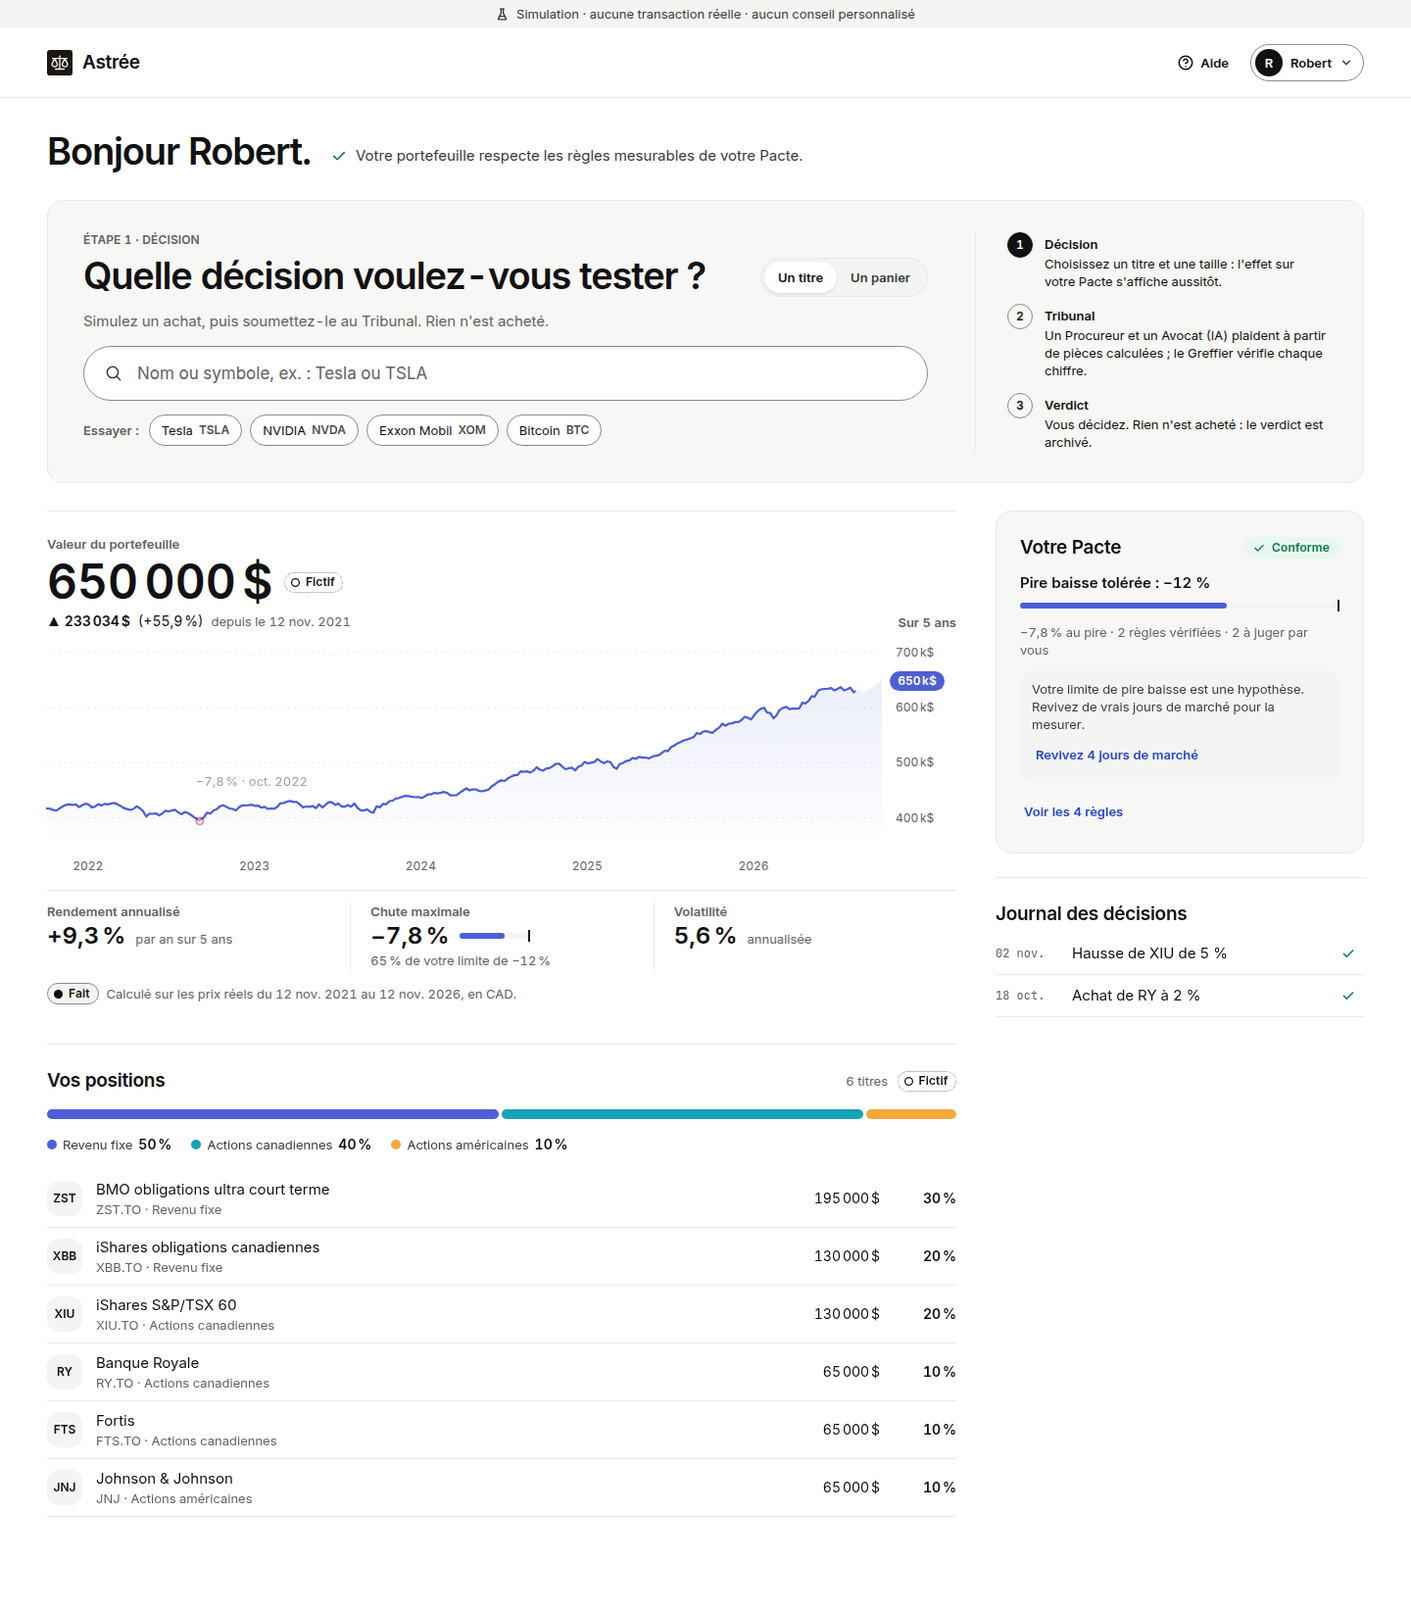
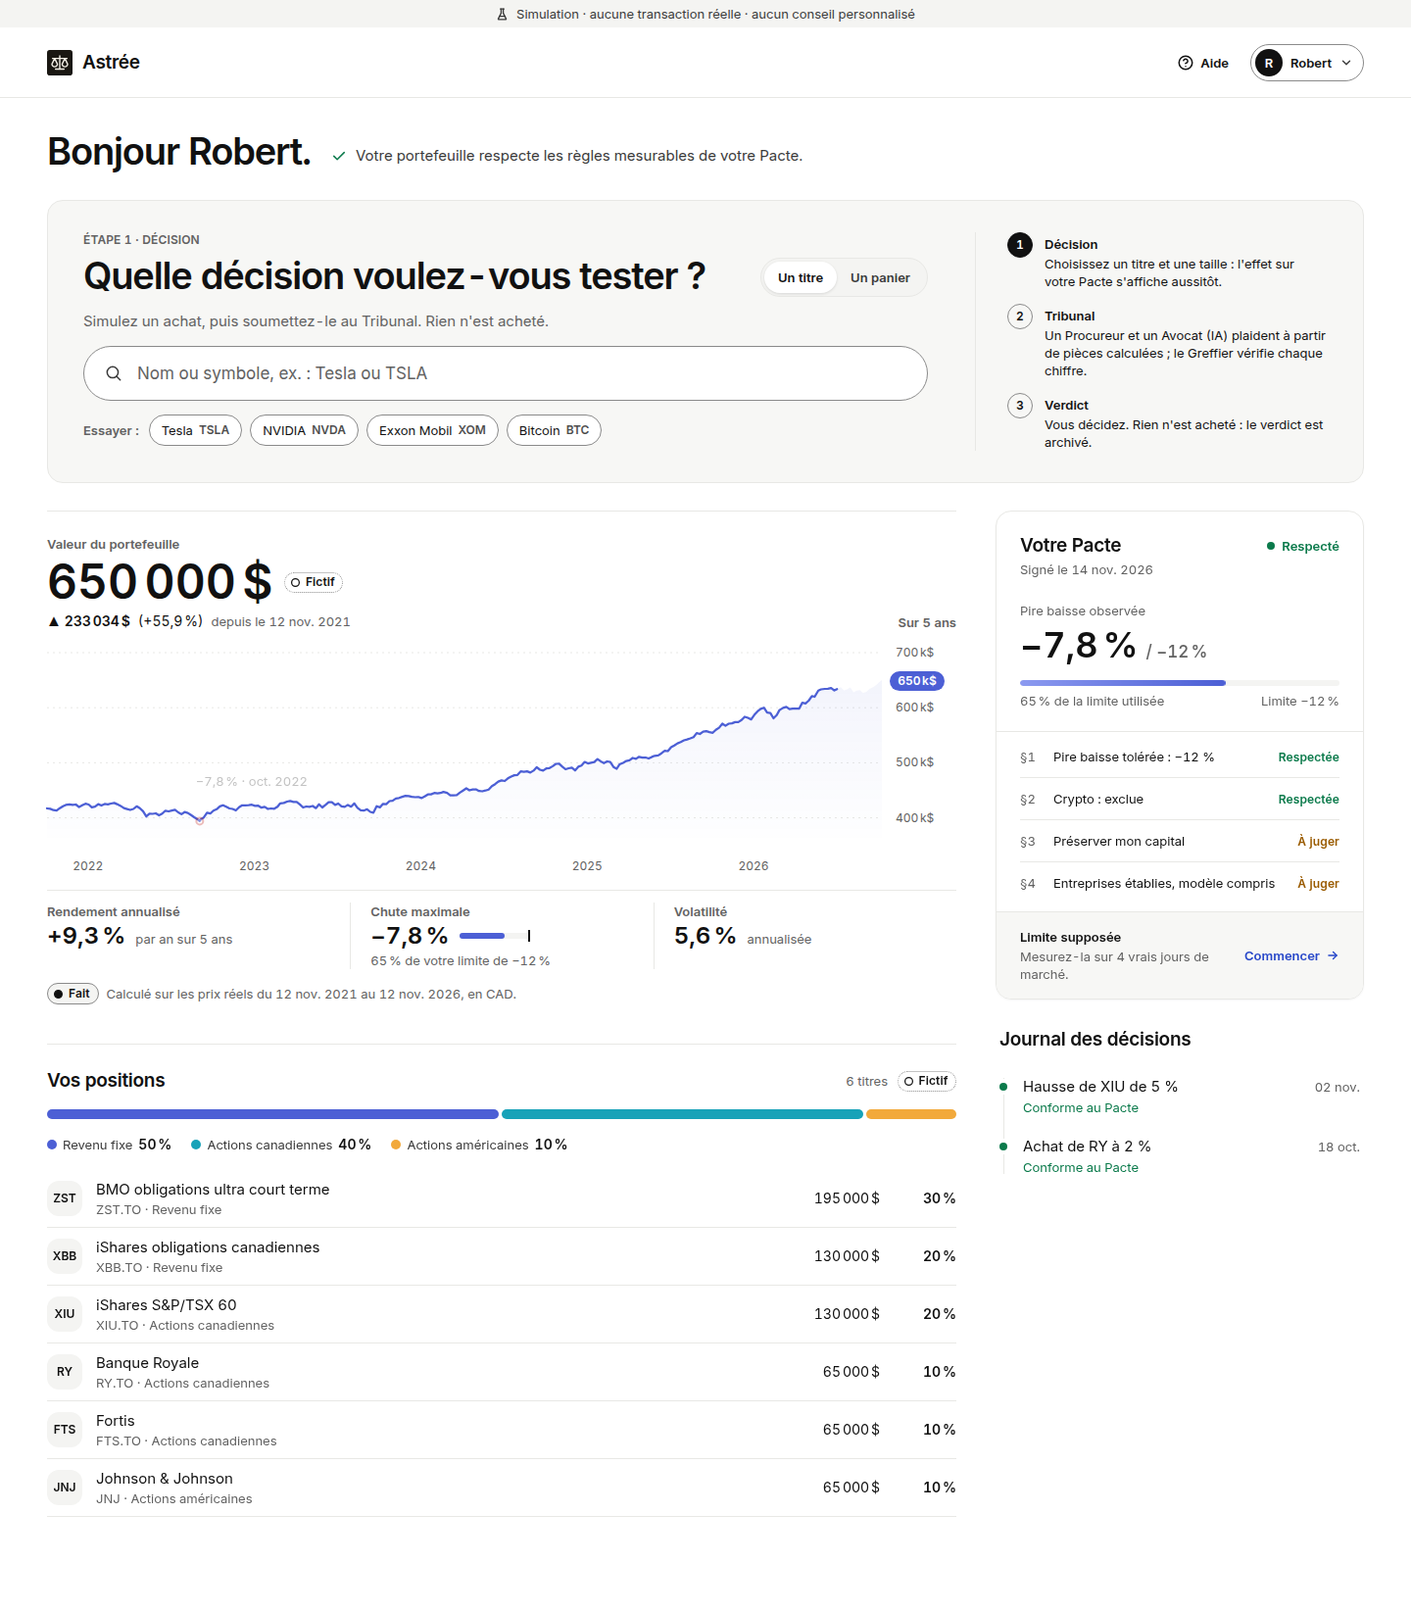
Recompose la carte « Votre Pacte » et le journal des décisions (#105)
Chiffre clé en grand avec jauge et bornes, règles toujours visibles avec
leur statut écrit, Pacte vécu en pied de carte cliquable ; journal en frise
avec un point coloré et le statut en toutes lettres.

diff --git a/frontend/src/ecrans/Portefeuille.tsx b/frontend/src/ecrans/Portefeuille.tsx
@@ -1,17 +1,17 @@
 /** Écran Portefeuille (annexe D.2), avec la recherche (D.3) et la confirmation après signature (C.6). */
 import { useState } from 'react';
-import { useLocation, useNavigate, useSearchParams } from 'react-router-dom';
-import type { EntreeJournal, Profil } from '../api/types';
+import { Link, useLocation, useNavigate, useSearchParams } from 'react-router-dom';
+import type { EntreeJournal, Profil, ReglePacte } from '../api/types';
 import { configUi, donneesCalibrage, nomTitre, rechercheUi } from '../api/donnees';
 import { Gabarit, useTitre } from '../components/Gabarit';
 import { GraphiqueValeur } from '../components/graphiques/GraphiqueValeur';
 import { Recherche } from '../components/Recherche';
 import { Bouton } from '../components/Bouton';
-import { IconeStatut, Provenance, Statut } from '../components/Etiquettes';
+import { Provenance } from '../components/Etiquettes';
 import { Jauge, Monogramme, Section } from '../components/Elements';
 import { Icone } from '../components/Icone';
 import { compte, date, dollars, jourMois, part, pourcent, seuil as seuilTexte } from '../lib/format';
-import { bilanPacte, regleCle, seuilPireBaisse, statutUi, valeurRegle } from '../domaine/pacte';
+import { bilanPacte, regleCle, seuilPireBaisse } from '../domaine/pacte';
 import { regleMesuree } from '../domaine/calibrage';
 import { useEtatProfil } from '../state/store';
 import styles from './Portefeuille.module.css';
@@ -137,69 +137,104 @@ function Positions({ profil }: { profil: Profil }) {
   );
 }
 
+/** Ligne du bas de la carte du Pacte : la limite de pire baisse est-elle supposée ou mesurée (Pacte vécu, #68) ? */
 function PacteVecu({ profil }: { profil: Profil }) {
   const mesuree = regleMesuree(profil);
   if (!donneesCalibrage(profil.id)) return null;
   return (
-    <div className={styles.pacteVecu}>
-      {mesuree ? (
-        <p className="t-petit c-700">{mesuree.provenance}.</p>
-      ) : (
-        <p className="t-petit c-700">Votre limite de pire baisse est une hypothèse. Revivez de vrais jours de marché pour la mesurer.</p>
-      )}
-      <Bouton variante="tertiaire" compact fleche={false} vers={`/${profil.id}/pacte-vecu`}>
-        {mesuree ? 'Revoir mes réponses' : 'Revivez 4 jours de marché'}
-      </Bouton>
+    <Link className={styles.pacteVecu} to={`/${profil.id}/pacte-vecu`}>
+      <span className={styles.textePacteVecu}>
+        <span className="t-petit-fort">{mesuree ? 'Limite mesurée' : 'Limite supposée'}</span>
+        <span className="t-petit c-500">{mesuree ? `${mesuree.provenance}.` : 'Mesurez-la sur 4 vrais jours de marché.'}</span>
+      </span>
+      <span className={`t-petit-fort ${styles.actionPacteVecu}`}>
+        {mesuree ? 'Revoir' : 'Commencer'}
+        <Icone nom="fleche-droite" taille={14} />
+      </span>
+    </Link>
+  );
+}
+
+/** Le chiffre clé du Pacte : la valeur actuelle de la règle la plus proche de sa limite, et sa jauge. */
+function RegleCle({ regle }: { regle: ReglePacte }) {
+  const baisse = regle.type === 'pire_baisse_max';
+  const limite = baisse ? regle.seuil : regle.max;
+  const valeur = regle.valeur ?? 0;
+  const utilisation = regle.utilisation ?? 0;
+  const enViolation = regle.statut === 'violation';
+  return (
+    <div className={styles.regleCle}>
+      <p className="t-petit c-500">{baisse ? 'Pire baisse observée' : regle.libelle}</p>
+      <p className={styles.chiffreCle}>
+        <span className={enViolation ? styles.chiffreViolation : undefined}>{baisse ? pourcent(valeur) : part(valeur)}</span>
+        {limite !== undefined && <span className={styles.limiteCle}>/ {baisse ? seuilTexte(limite) : part(limite)}</span>}
+      </p>
+      <span
+        className={`${styles.jaugePacte} ${enViolation ? styles.jaugeViolation : ''}`}
+        role="meter"
+        aria-valuemin={0}
+        aria-valuemax={100}
+        aria-valuenow={Math.round(utilisation * 100)}
+        aria-label={`${regle.libelle} : ${pourcent(utilisation, { decimales: 0 })} de la limite utilisée`}
+      >
+        <span style={{ width: `${Math.min(1, Math.max(0, utilisation)) * 100}%` }} />
+      </span>
+      <p className={`t-petit c-500 ${styles.bornesJauge}`}>
+        <span>{pourcent(utilisation, { decimales: 0 })} de la limite utilisée</span>
+        {limite !== undefined && <span>Limite {baisse ? seuilTexte(limite) : part(limite)}</span>}
+      </p>
     </div>
   );
 }
 
+const STATUT_REGLE: Record<ReglePacte['statut'], string> = { conforme: 'Respectée', violation: 'Enfreinte', a_verifier: 'À juger' };
+const COULEUR_STATUT: Record<ReglePacte['statut'], string> = { conforme: styles.couleurConforme, violation: styles.couleurViolation, a_verifier: styles.couleurVerifier };
+
 function CartePacte({ profil }: { profil: Profil }) {
-  const [ouvert, setOuvert] = useState(false);
   const cle = regleCle(profil);
   const bilan = bilanPacte(profil);
   const regles = profil.pacte.regles;
-  const detail = [cle ? valeurRegle(cle) : null, `${compte(bilan.verifiees, 'règle vérifiée', 'règles vérifiées')}`, bilan.aJuger ? `${bilan.aJuger} à juger par vous` : null]
-    .filter(Boolean).join(' · ');
   return (
     <section className={styles.cartePacte} aria-labelledby="titre-pacte">
       <div className={styles.entetePacte}>
-        <h2 className="t-panneau" id="titre-pacte">Votre Pacte</h2>
-        <Statut type={bilan.statut} />
-      </div>
-      {cle && (
-        <div className={styles.regleCle}>
-          <p className="t-corps-fort">{cle.libelle}</p>
-          <Jauge valeur={cle.utilisation ?? 0} libelle={`${cle.libelle} : ${pourcent(cle.utilisation ?? 0, { decimales: 0 })} de la limite utilisée`} />
+        <div className={styles.titrePacte}>
+          <h2 className="t-panneau" id="titre-pacte">Votre Pacte</h2>
+          <p className="t-petit c-500">Signé le {date(profil.pacte.dateSignature)}</p>
         </div>
-      )}
-      <p className="t-petit c-500">{detail}</p>
-      <PacteVecu profil={profil} />
-      <Bouton variante="tertiaire" compact fleche={false} aria-expanded={ouvert} aria-controls="regles-pacte" onClick={() => setOuvert((o) => !o)} className={styles.voirRegles}>
-        {ouvert ? 'Masquer les règles' : `Voir les ${regles.length} règles`}
-      </Bouton>
-      <ol id="regles-pacte" className={styles.regles} hidden={!ouvert}>
+        <span className={`t-petit-fort ${styles.etatPacte} ${bilan.violations ? styles.etatViolation : styles.etatConforme}`}>
+          <span className={styles.point} aria-hidden="true" />
+          {bilan.violations ? compte(bilan.violations, 'règle enfreinte', 'règles enfreintes') : 'Respecté'}
+        </span>
+      </div>
+      {cle && <RegleCle regle={cle} />}
+      <ol className={styles.regles} aria-label="Règles du Pacte">
         {regles.map((r, i) => (
           <li key={r.id}>
-            <span className="t-trace c-500">§{i + 1}</span>
-            <span className="t-petit">
-              {r.libelle}
-              {r.provenance && <span className="c-500"> · {r.provenance}</span>}
+            <span className={`t-petit c-500 ${styles.numeroRegle}`}>§{i + 1}</span>
+            <span className={styles.texteRegle}>
+              <span className="t-petit">{r.libelle}</span>
+              {r.provenance && <span className="t-petit c-500">{r.provenance}</span>}
             </span>
-            <IconeStatut type={statutUi(r.statut)} taille={14} />
+            <span className={`t-etiquette ${styles.statutRegle} ${COULEUR_STATUT[r.statut]}`}>{STATUT_REGLE[r.statut]}</span>
           </li>
         ))}
-        <li className="t-petit c-500">Signé le {date(profil.pacte.dateSignature)}. Les règles sans calcul possible sont à juger par vous.</li>
       </ol>
+      <PacteVecu profil={profil} />
     </section>
   );
 }
+
+const LIBELLE_JOURNAL: Record<EntreeJournal['statut'], string> = {
+  conforme: 'Conforme au Pacte',
+  violation: 'En conflit avec le Pacte',
+  a_verifier: 'À vérifier',
+};
 
 function Journal({ entrees }: { entrees: EntreeJournal[] }) {
   const [tout, setTout] = useState(false);
   const visibles = tout ? entrees : entrees.slice(0, 3);
   return (
-    <section className={`section ${styles.journal}`} aria-labelledby="titre-journal">
+    <section className={styles.journal} aria-labelledby="titre-journal">
       <div className={styles.enteteJournal}>
         <h2 className="t-panneau" id="titre-journal">Journal des décisions</h2>
         {entrees.length > 3 && (
@@ -208,15 +243,18 @@ function Journal({ entrees }: { entrees: EntreeJournal[] }) {
           </Bouton>
         )}
       </div>
-      <ul>
+      <ol className={styles.frise}>
         {visibles.map((e) => (
-          <li key={`${e.date}-${e.texte}`} className={`${styles.entree} ${e.nouveau ? styles.entreeNouvelle : ''}`}>
-            <span className={`t-trace c-500 ${styles.dateJournal}`}>{jourMois(e.date)}</span>
-            <span className="t-corps">{e.texte}</span>
-            <IconeStatut type={statutUi(e.statut)} />
+          <li key={`${e.date}-${e.texte}`} className={`${styles.entree} ${COULEUR_STATUT[e.statut]} ${e.nouveau ? styles.entreeNouvelle : ''}`}>
+            <span className={styles.point} aria-hidden="true" />
+            <span className={styles.texteEntree}>
+              <span className="t-corps">{e.texte}</span>
+              <span className={`t-petit ${styles.statutEntree}`}>{LIBELLE_JOURNAL[e.statut]}</span>
+            </span>
+            <time className="t-petit c-500" dateTime={e.date}>{jourMois(e.date)}</time>
           </li>
         ))}
-      </ul>
+      </ol>
     </section>
   );
 }

diff --git a/frontend/src/ecrans/Portefeuille.module.css b/frontend/src/ecrans/Portefeuille.module.css
@@ -105,35 +105,126 @@
 .montantLigne { width: 120px; text-align: right; flex: none; }
 .poids { width: 64px; text-align: right; flex: none; }
 
+/* Carte du Pacte : en-tête, chiffre clé et sa jauge, règles toujours visibles, Pacte vécu en pied de carte. */
 .cartePacte {
   display: flex;
   flex-direction: column;
-  gap: 12px;
-  padding: 24px;
-  background: var(--fond-sourdine);
+  background: var(--fond-carte);
   border: 1px solid var(--trait-fin);
   border-radius: var(--rayon);
+  box-shadow: 0 1px 2px rgb(17 17 17 / 0.04);
+  overflow: hidden;
 }
-.entetePacte { display: flex; align-items: center; justify-content: space-between; gap: 12px; }
-.regleCle { display: flex; flex-direction: column; gap: 6px; }
-.voirRegles { align-self: flex-start; }
-.regles { display: flex; flex-direction: column; gap: 8px; border-top: 1px solid var(--trait-fin); padding-top: 12px; }
-.regles[hidden] { display: none; }
-.regles li { display: grid; grid-template-columns: 24px 1fr auto; align-items: center; gap: 8px; }
-.regles li:last-child { display: block; }
+.entetePacte {
+  display: flex;
+  align-items: flex-start;
+  justify-content: space-between;
+  gap: 12px;
+  padding: 22px 24px 0;
+}
+.titrePacte { display: flex; flex-direction: column; gap: 2px; }
+.etatPacte { display: inline-flex; align-items: center; gap: 7px; padding-top: 4px; white-space: nowrap; }
+.point { flex: none; width: 8px; height: 8px; border-radius: 50%; background: currentColor; }
+.etatConforme { color: var(--statut-conforme); }
+.etatViolation { color: var(--statut-violation); }
 
-.journal { display: flex; flex-direction: column; gap: 6px; padding-top: 16px; }
-.enteteJournal { display: flex; align-items: center; justify-content: space-between; }
-.entree {
-  display: grid;
-  grid-template-columns: 64px 1fr auto;
-  align-items: center;
-  gap: 14px;
-  padding: 10px 8px 10px 0;
-  border-bottom: 1px solid var(--trait-fin);
+.regleCle { display: flex; flex-direction: column; gap: 6px; padding: 24px 24px 22px; }
+.chiffreCle { display: flex; align-items: baseline; gap: 8px; }
+.chiffreCle > span:first-child {
+  font-family: var(--police-titre);
+  font-weight: 600;
+  font-size: 36px;
+  line-height: 40px;
+  letter-spacing: -0.04em;
 }
-.entreeNouvelle { background: var(--accent-bleu-teinte); padding-left: 8px; border-radius: var(--rayon-petit); }
-.dateJournal { white-space: nowrap; }
+.chiffreViolation { color: var(--statut-violation); }
+.limiteCle { color: var(--encre-500); font-size: 17px; font-weight: 500; letter-spacing: -0.01em; }
+.jaugePacte {
+  position: relative;
+  display: block;
+  height: 6px;
+  margin-top: 10px;
+  border-radius: var(--rayon-pilule);
+  background: var(--fond-creux);
+  overflow: hidden;
+}
+.jaugePacte > span {
+  position: absolute;
+  inset: 0 auto 0 0;
+  border-radius: var(--rayon-pilule);
+  background: linear-gradient(90deg, #8c9af0, var(--donnee-principale));
+  transform-origin: left;
+  animation: remplir 0.9s cubic-bezier(0.4, 0, 0.2, 1);
+}
+.jaugeViolation > span { background: var(--statut-violation); }
+@keyframes remplir { from { transform: scaleX(0); } }
+.bornesJauge { display: flex; justify-content: space-between; gap: 12px; }
+
+.regles { display: flex; flex-direction: column; padding: 4px 24px 8px; border-top: 1px solid var(--trait-fin); }
+.regles li {
+  display: grid;
+  grid-template-columns: 24px minmax(0, 1fr) auto;
+  align-items: baseline;
+  gap: 10px;
+  padding: 12px 0;
+}
+.regles li + li { border-top: 1px solid var(--trait-fin); }
+.numeroRegle { font-variant-numeric: tabular-nums; }
+.texteRegle { display: flex; flex-direction: column; gap: 2px; min-width: 0; }
+.statutRegle { white-space: nowrap; }
+.couleurConforme { --couleur-statut: var(--statut-conforme); }
+.couleurViolation { --couleur-statut: var(--statut-violation); }
+.couleurVerifier { --couleur-statut: var(--statut-verifier); }
+.statutRegle { color: var(--couleur-statut); }
+
+/* Pied de carte cliquable : toute la ligne mène au Pacte vécu. */
+.pacteVecu {
+  display: flex;
+  align-items: center;
+  justify-content: space-between;
+  gap: 16px;
+  padding: 16px 24px;
+  border-top: 1px solid var(--trait-fin);
+  background: var(--fond-sourdine);
+  color: var(--encre-900);
+  text-decoration: none;
+  transition: box-shadow var(--transition);
+}
+.pacteVecu:hover { box-shadow: inset 0 0 0 999px rgb(17 17 17 / 0.025); }
+.pacteVecu:focus-visible { outline-offset: -3px; }
+.textePacteVecu { display: flex; flex-direction: column; gap: 2px; min-width: 0; }
+.actionPacteVecu { display: inline-flex; align-items: center; gap: 6px; flex: none; color: var(--accent-bleu); }
+.actionPacteVecu svg { transition: transform var(--transition); }
+.pacteVecu:hover .actionPacteVecu svg { transform: translateX(3px); }
+
+/* Journal : une frise verticale, un point coloré par statut, le statut écrit en toutes lettres. */
+.journal { display: flex; flex-direction: column; gap: 14px; padding: 4px 4px 0; }
+.enteteJournal { display: flex; align-items: center; justify-content: space-between; }
+.frise { position: relative; display: flex; flex-direction: column; }
+.frise::before {
+  content: '';
+  position: absolute;
+  left: 3.5px;
+  top: 12px;
+  bottom: 12px;
+  width: 1px;
+  background: var(--trait-fin);
+}
+.entree {
+  position: relative;
+  display: grid;
+  grid-template-columns: 8px minmax(0, 1fr) auto;
+  align-items: start;
+  gap: 16px;
+  padding: 10px 0;
+}
+.entree .point { margin-top: 7px; background: var(--couleur-statut); box-shadow: 0 0 0 4px var(--fond-papier); }
+.texteEntree { display: flex; flex-direction: column; gap: 1px; min-width: 0; }
+.statutEntree { color: var(--couleur-statut); }
+.entree time { padding-top: 2px; white-space: nowrap; }
+/* Nouvelle entrée (après un verdict) : surlignée en bleu clair à droite du point, titre en gras. */
+.entreeNouvelle { background: linear-gradient(90deg, transparent 18px, var(--accent-bleu-teinte) 18px); border-radius: 0 var(--rayon-petit) var(--rayon-petit) 0; padding-right: 8px; }
+.entreeNouvelle .texteEntree > span:first-child { font-weight: 600; }
 
 @media (max-width: 1023px) {
   .grille { grid-template-columns: 1fr; }
@@ -148,12 +239,3 @@
   .montant { flex-direction: column; align-items: flex-start; }
 }
 
-.pacteVecu {
-  display: flex;
-  flex-direction: column;
-  align-items: flex-start;
-  gap: 4px;
-  padding: 10px 12px;
-  background: var(--fond-creux);
-  border-radius: var(--rayon);
-}

diff --git a/docs/maquette/spec_interface_astree.md b/docs/maquette/spec_interface_astree.md
@@ -552,8 +552,8 @@ La recherche est la fonction principale de l'écran : elle passe en tête, sur t
   - Ligne de provenance : Fait + « Calculé sur les prix réels du 12 nov. 2021 au 12 nov. 2026, en CAD. »
   - « Vos positions » : barre de répartition par groupe, légende à pastilles, puis la liste. Chaque ligne affiche monogramme, nom, « ticker · groupe », valeur et poids. Pas de colonnes rendement ou volatilité par titre.
 - **Colonne latérale** (la recherche n'y est plus) :
-  - Carte « Votre Pacte » : statut Conforme, règle clé avec jauge, détail + « 4 règles respectées », lien « Voir les 4 règles ».
-  - « Journal des décisions » : 2 entrées + « Tout voir ».
+  - Carte « Votre Pacte » (#105) : titre et « Signé le … », état à droite (point vert « Respecté » ou point rouge « N règles enfreintes ») ; chiffre clé de la règle la plus proche de sa limite (« Pire baisse observée −15,1 % / −20 % », 36 px), jauge arrondie avec « 76 % de la limite utilisée » et « Limite −20 % » ; **toutes les règles visibles** (§n, libellé, provenance éventuelle, statut écrit en couleur : Respectée, Enfreinte, À juger) ; pied de carte cliquable vers le Pacte vécu (« Limite supposée · Mesurez-la sur 4 vrais jours de marché · Commencer → », ou « Limite mesurée · … · Revoir »).
+  - « Journal des décisions » (#105) : frise verticale, un point coloré par statut, texte de la décision, statut en toutes lettres (« Conforme au Pacte », « En conflit avec le Pacte », « À vérifier »), date à droite ; 3 entrées puis « Tout voir ».
 - **Sous 1024 px :** la colonne latérale passe sous la colonne principale ; le bandeau de recherche reste en tête.
 
 ### D.3 Recherche (combobox ARIA)

diff --git a/docs/journal/105-refonte-visuelle.md b/docs/journal/105-refonte-visuelle.md
@@ -24,6 +24,12 @@ Une refonte du style seulement, sans changer le parcours ni les données. Le sty
   - `GraphiqueValeur.tsx` : ajout d'un `<linearGradient id="degrade-valeur">` pour l'aire ;
   - `Graphiques.module.css` : courbe de valeur et courbe « avec la décision » en indigo, « Actuel » en gris, limite du Pacte et pire baisse en rouge, repères en pointillés légers, bulle de lecture avec ombre.
 - **Portefeuille** (`ecrans/Portefeuille.tsx`) : la barre de répartition prend les couleurs `--categorie-*` (`TEINTES`) au lieu des nuances d'encre, avec des segments arrondis et des puces rondes dans la légende.
+- **Carte « Votre Pacte » et journal** (`ecrans/Portefeuille.tsx`, `Portefeuille.module.css`) : la carte est recomposée.
+  - En-tête : « Signé le … » et un état en point coloré au lieu de la pastille.
+  - Chiffre clé (`RegleCle`) : la valeur de la règle la plus proche de sa limite en grand (« −15,1 % / −20 % »), une jauge arrondie et ses deux bornes écrites.
+  - Les règles sont **toujours visibles**, avec leur statut écrit (Respectée, Enfreinte, À juger), au lieu du bouton « Voir les N règles ».
+  - Le Pacte vécu (`PacteVecu`) devient un pied de carte cliquable, au lieu d'un encadré gris imbriqué.
+  - Le journal devient une frise verticale : un point coloré par statut et le statut en toutes lettres (« Conforme au Pacte »), au lieu des seules coches.
 - **Entrée** : initiale en bleu dans un rond, cartes et panneau « Construire mon Pacte » plus aérés.
 - **Spec** (`docs/maquette/spec_interface_astree.md`) : annexe A (couleurs, règle d'usage des données, typographie, rayons, ombres, sections, composants) et passages de D.2 et D.3 qui décrivaient l'ancien style.
 
